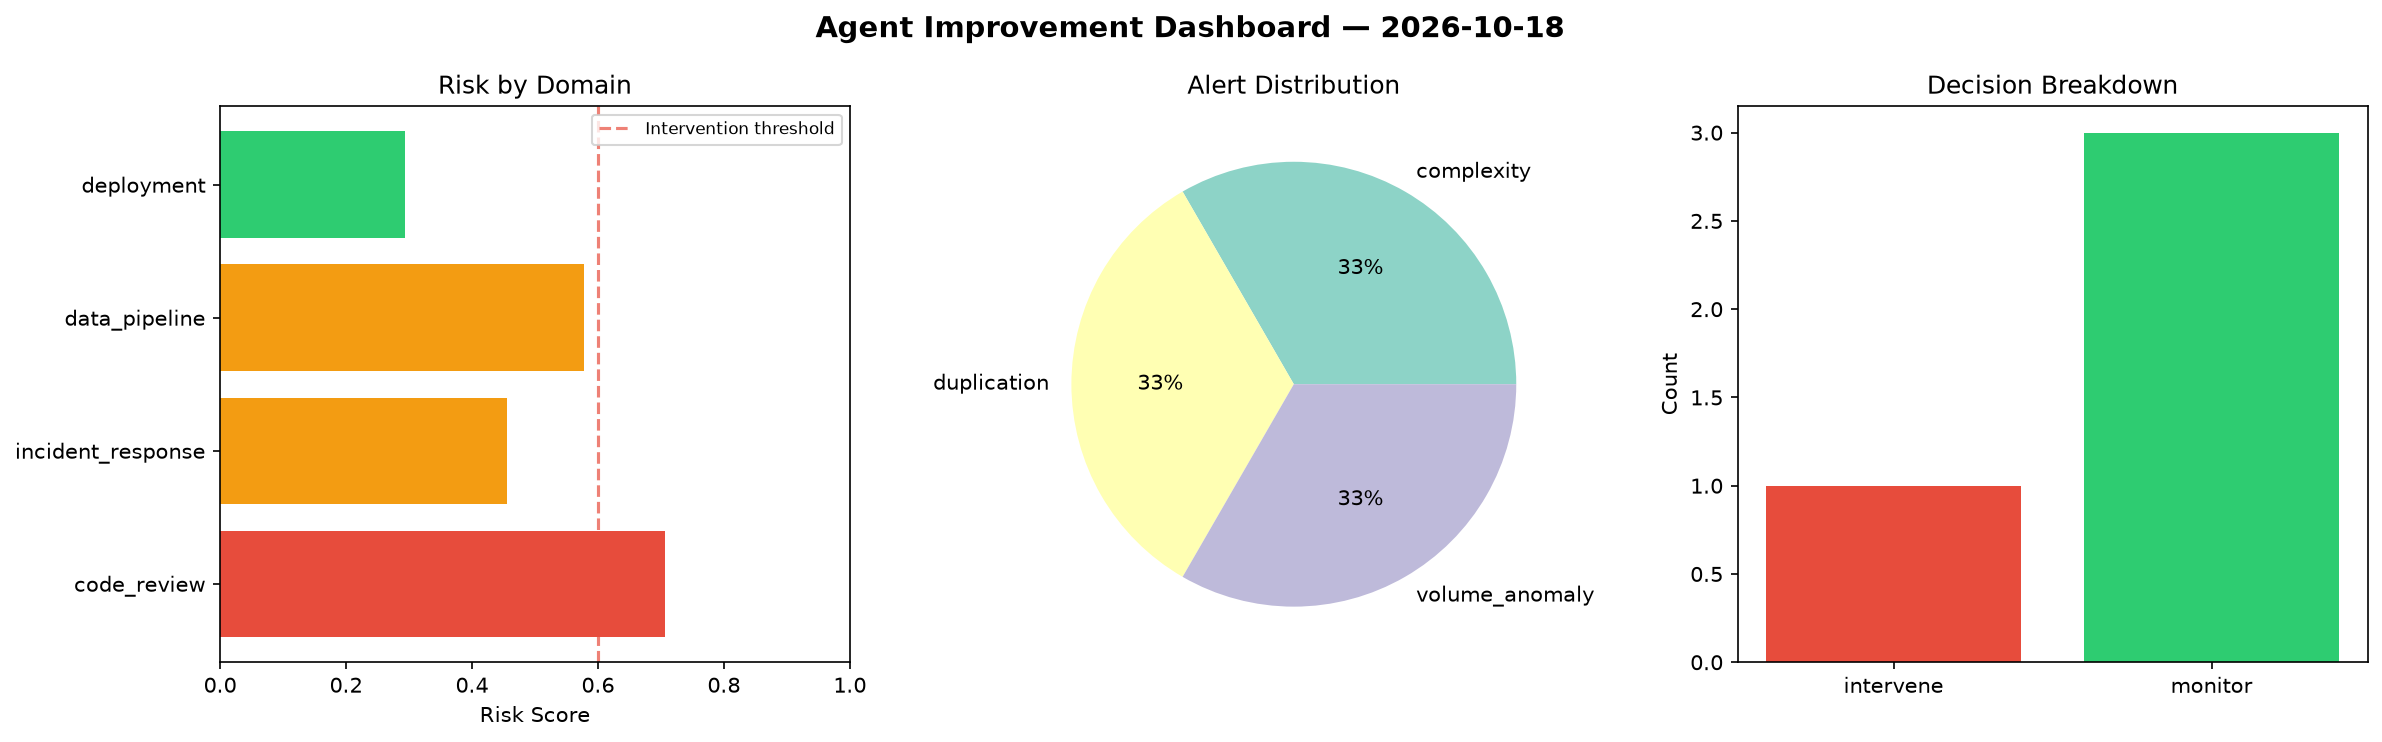
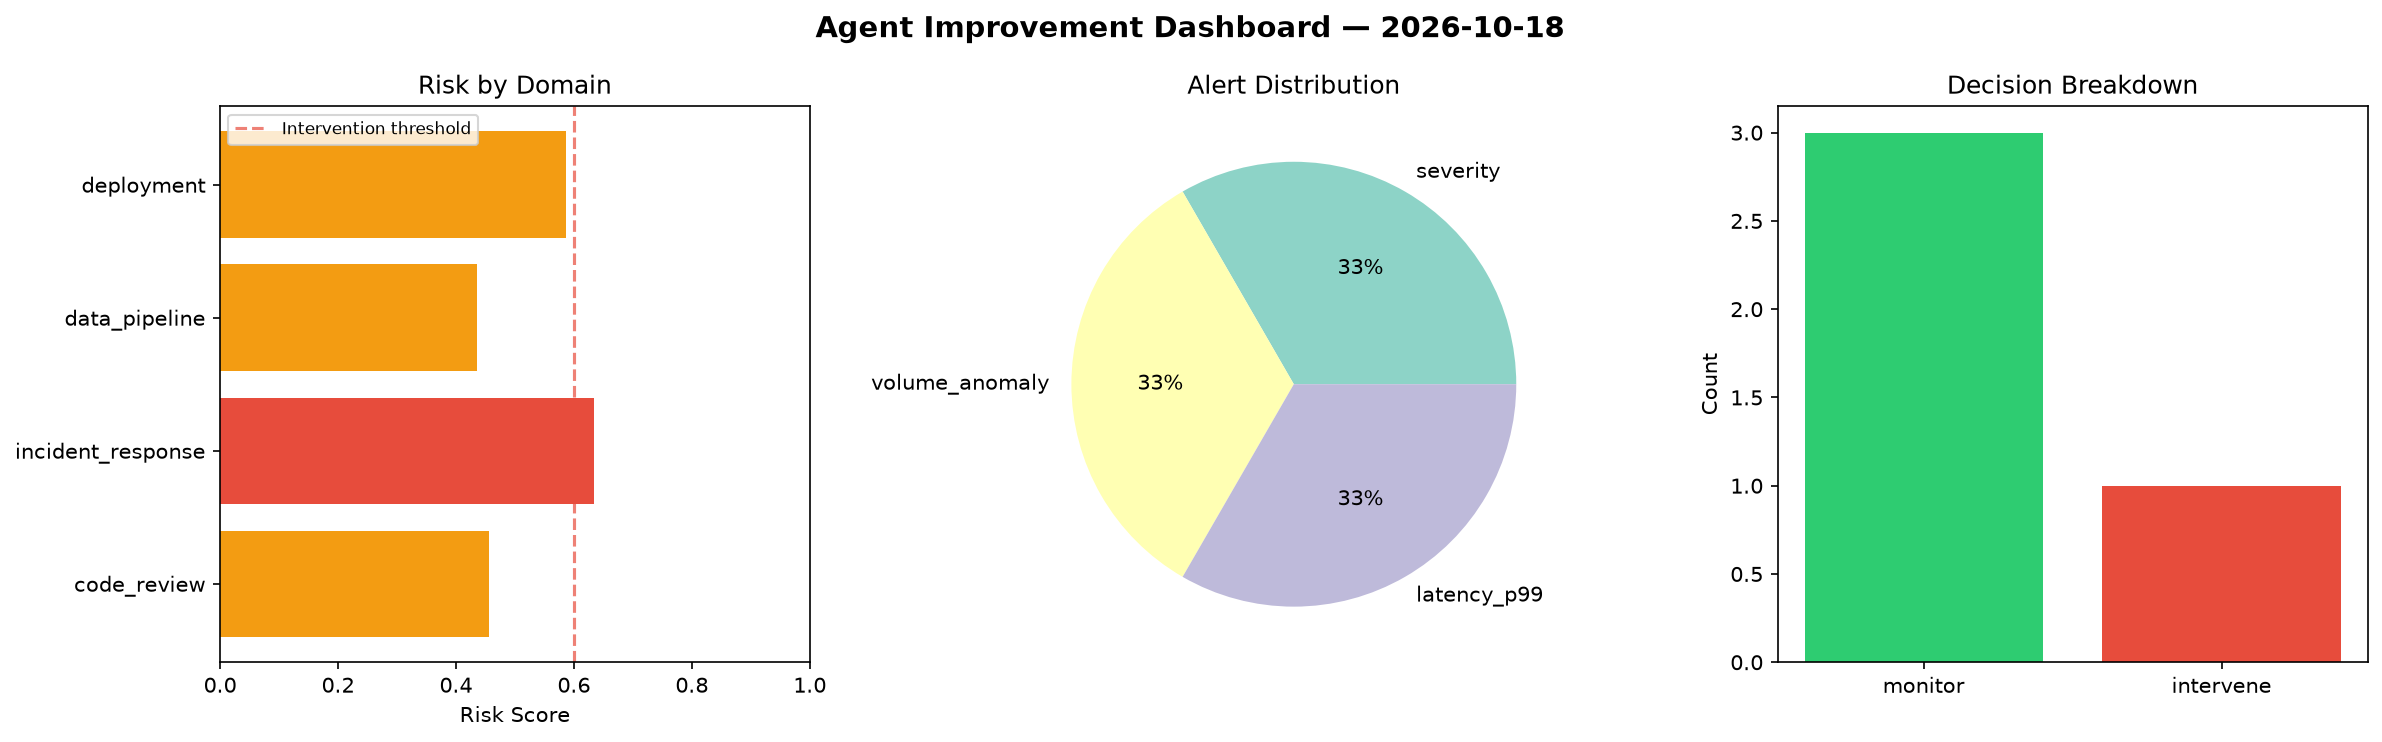
agent-improvement: daily cycle 2026-10-18T22:24

diff --git a/logs/2026-10-18.md b/logs/2026-10-18.md
@@ -1,6 +1,6 @@
 # Agent Improvement Report — 2026-10-18
 
-**Cycle ID:** `dceac1a8` | **Avg Risk:** 0.5086 | **Interventions:** 1/4
+**Cycle ID:** `6313ff20` | **Avg Risk:** 0.528 | **Interventions:** 1/4
 
 ![Dashboard](2026-10-18_dashboard.png)
 
@@ -10,18 +10,18 @@
 
 | Domain | Risk Score | Decision | Alerts |
 |--------|-----------|----------|--------|
-| code_review | 0.7064 | intervene | complexity, duplication |
-| incident_response | 0.4562 | monitor | none |
-| data_pipeline | 0.5779 | monitor | volume_anomaly |
-| deployment | 0.294 | monitor | none |
+| code_review | 0.4553 | monitor | none |
+| incident_response | 0.6343 | intervene | severity |
+| data_pipeline | 0.4349 | monitor | volume_anomaly |
+| deployment | 0.5873 | monitor | latency_p99 |
 
 ## Delta vs Yesterday
 
 | Domain | Today | Yesterday | Change |
 |--------|-------|-----------|--------|
-| code_review | 0.7064 | 0.3352 | 📈 110.7% |
-| incident_response | 0.4562 | 0.5277 | 📉 -13.5% |
-| data_pipeline | 0.5779 | 0.6106 | 📉 -5.4% |
-| deployment | 0.294 | 0.4881 | 📉 -39.8% |
+| code_review | 0.4553 | 0.3352 | 📈 35.8% |
+| incident_response | 0.6343 | 0.5277 | 📈 20.2% |
+| data_pipeline | 0.4349 | 0.6106 | 📉 -28.8% |
+| deployment | 0.5873 | 0.4881 | 📈 20.3% |
 
-**Refinement:** `{'adjustment': 'maintain', 'trend': 'improving', 'window': 4}`
+**Refinement:** `{'adjustment': 'tighten_thresholds', 'trend': 'degrading', 'window': 4}`
